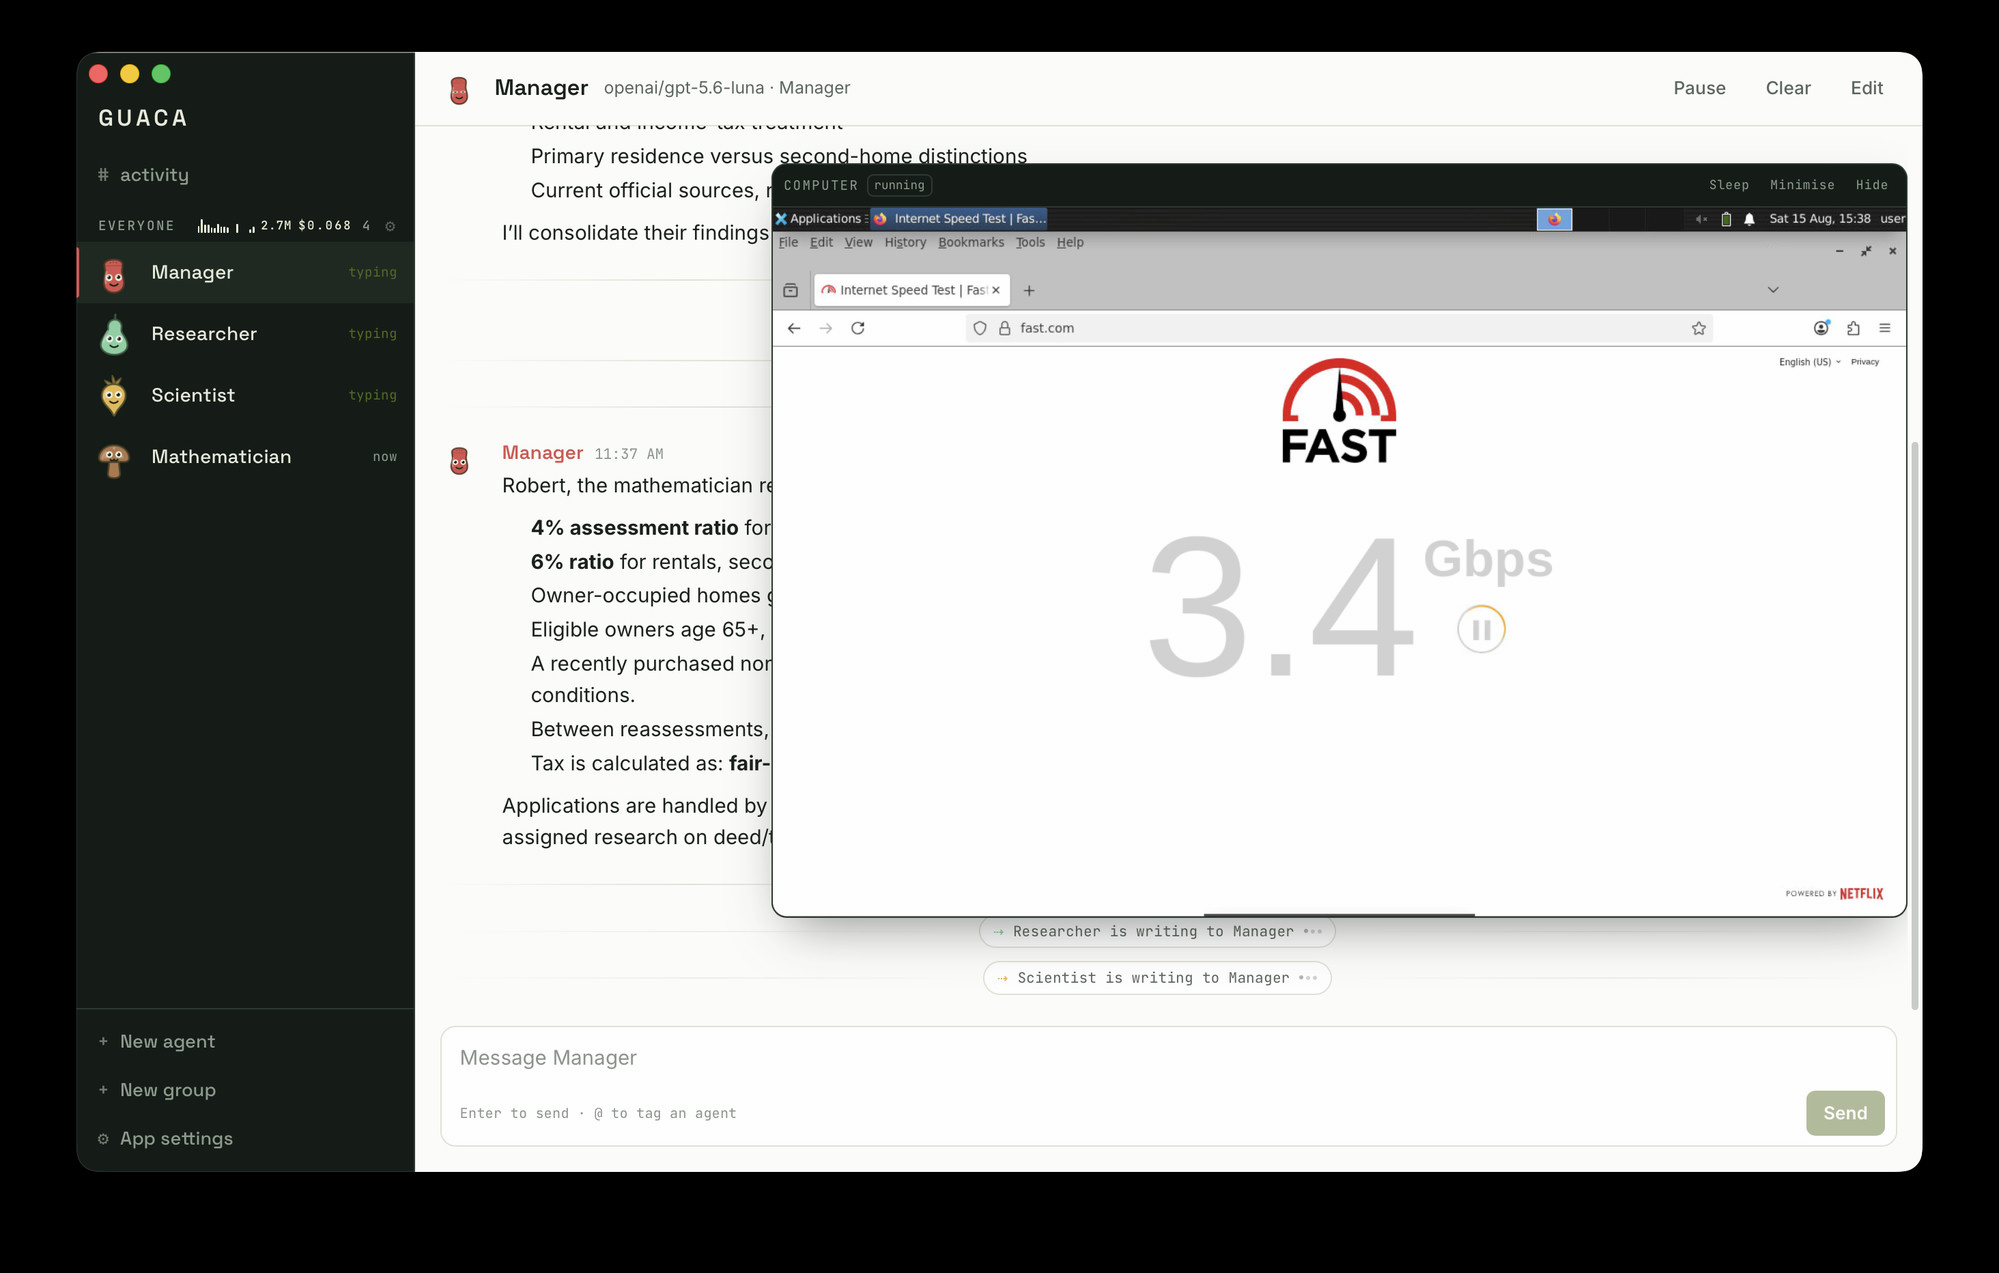
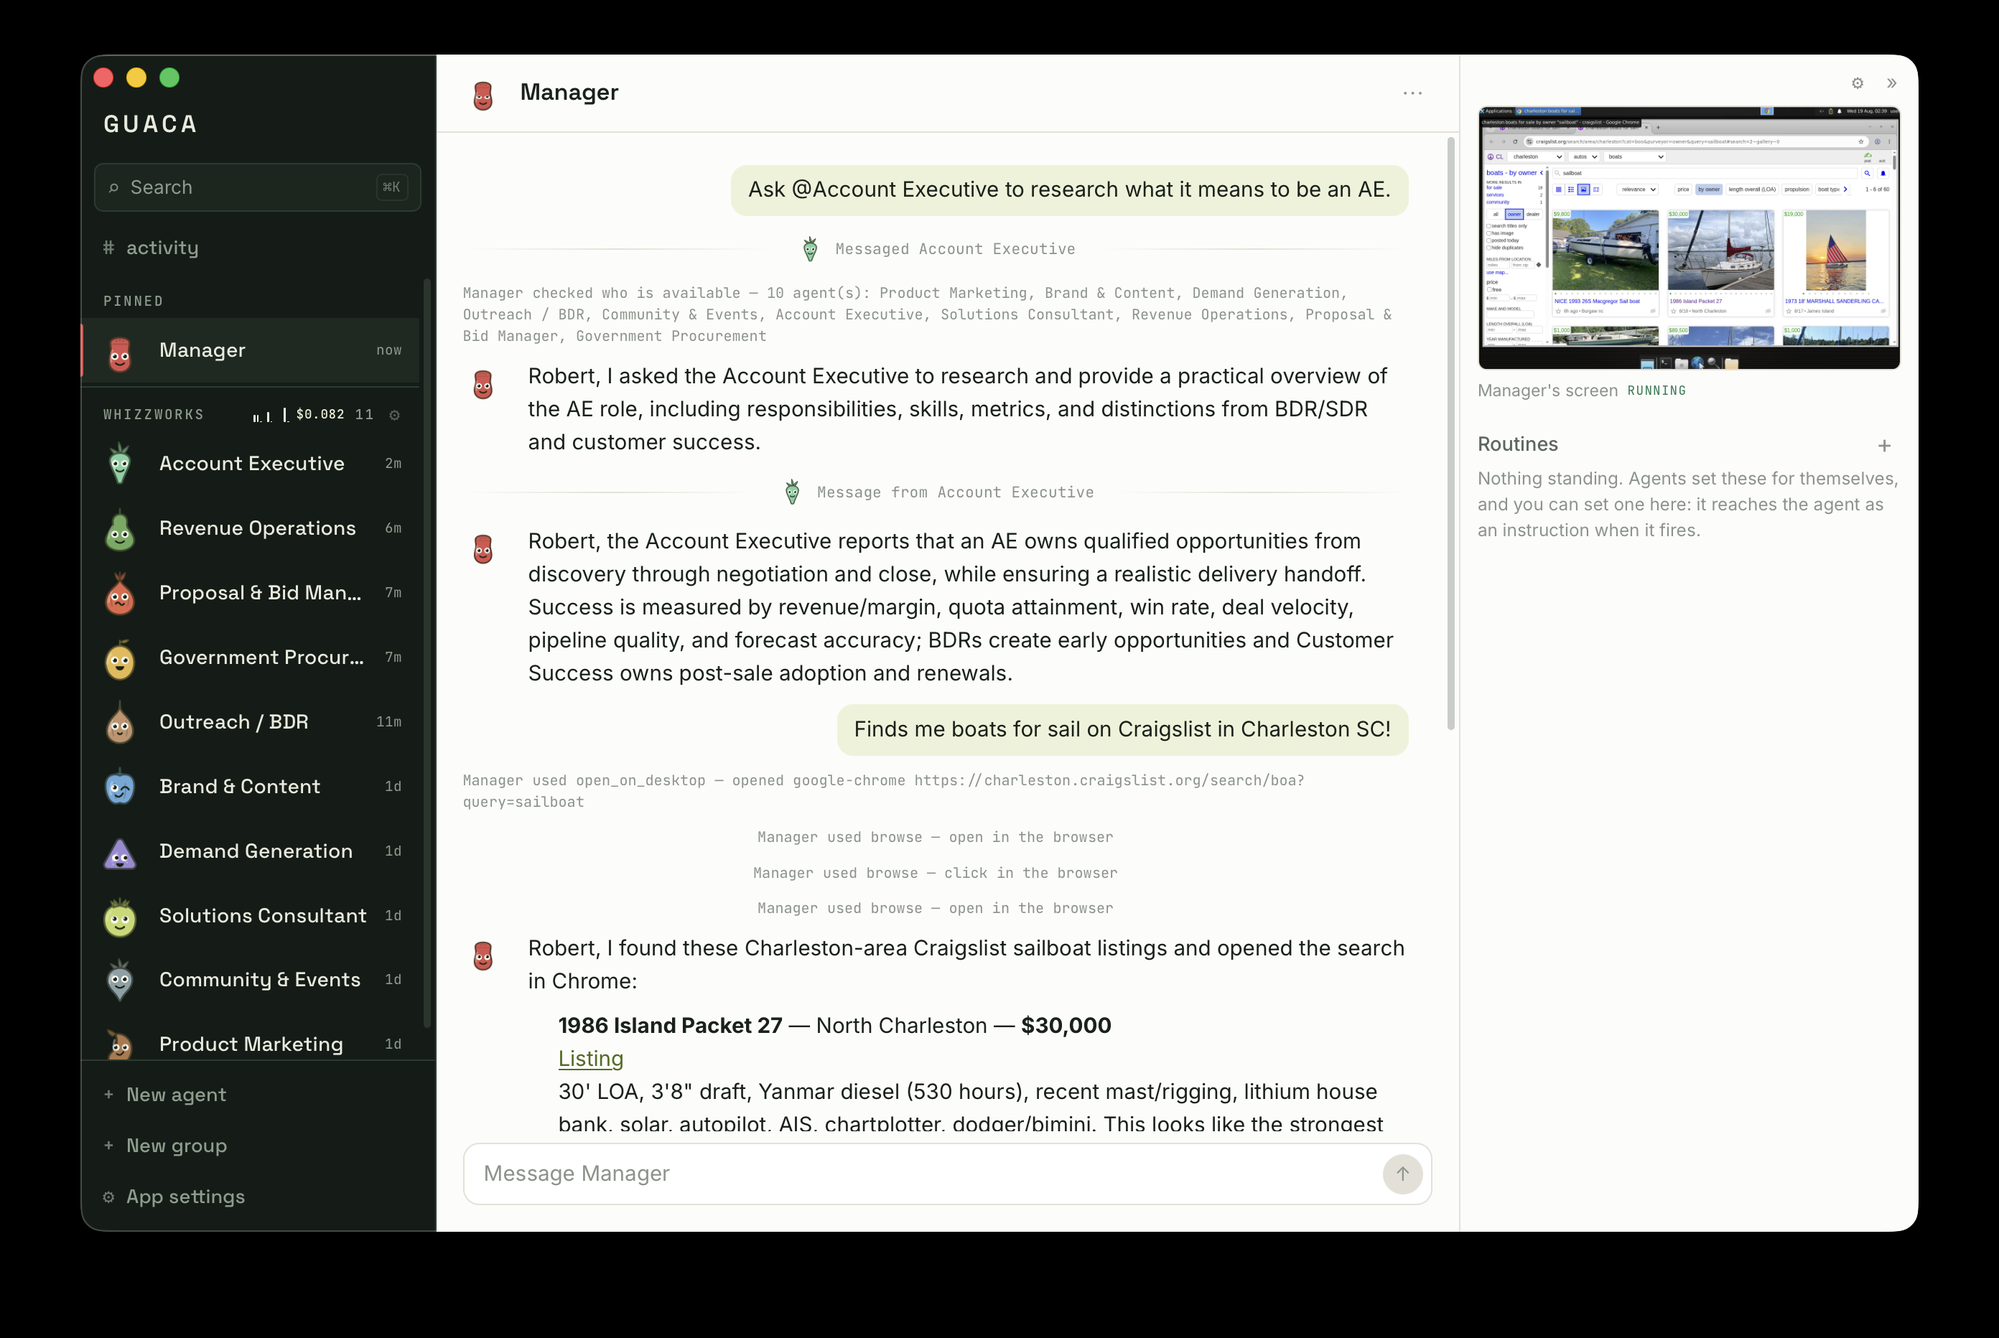
docs: the README screenshot shows a crew and a machine beside the transcript (#24)

diff --git a/README.md b/README.md
@@ -4,7 +4,7 @@ A local desktop app where you talk to LLM agents and those agents talk to each
 other. Slack-shaped: a rail of agents on the left, a conversation on the right,
 and an activity view showing every message they send between themselves.
 
-![Guaca, showing four agents working on one errand with one agent's computer open over the transcript](docs/img/guaca.png)
+![Guaca, showing a crew of eleven agents, with the Manager's own computer open beside the transcript as it works through a Craigslist search](docs/img/guaca.png)
 
 Ask the Manager for something. It works out who on its team can help, sends
 them each a message, and they think at once rather than in turn. You watch it
